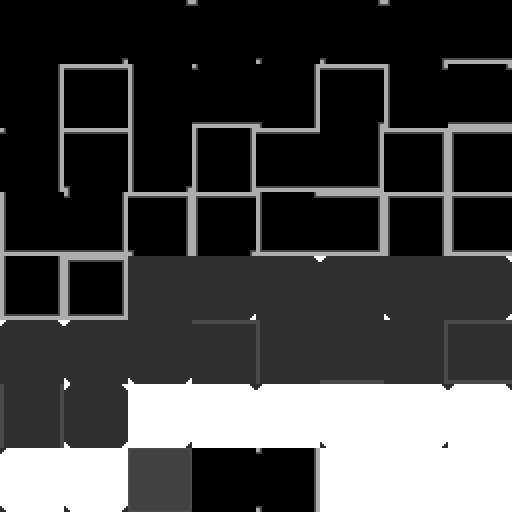
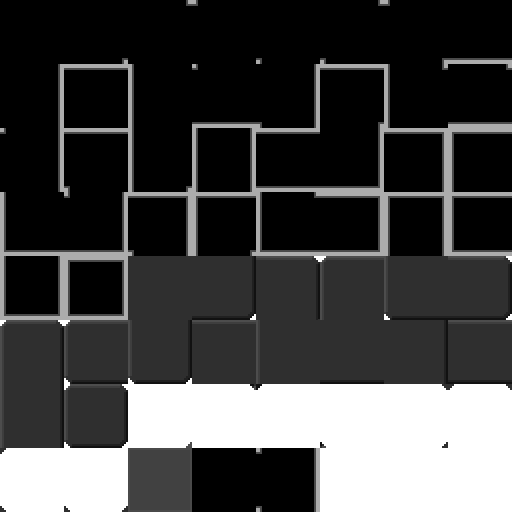
Remove corner sprites and somewhat fix sprite rendering issues

Changed region(s): [[0.375, 0.5, 1.0, 0.75], [0.0, 0.625, 0.375, 0.875], [0.625, 0.7188, 0.75, 0.75]]

diff --git a/src/js/stage.js b/src/js/stage.js
@@ -450,9 +450,15 @@ class Stage {
         // Draw any colliding tiles that haven't been drawn yet
         if (this.background) {
           const startCol = Math.floor(blockBounds.x1 / this.tileSize);
-          const endCol   = Math.ceil(blockBounds.x2 / this.tileSize);
+          let endCol   = Math.ceil(blockBounds.x2 / this.tileSize);
           const startRow = Math.floor(blockBounds.y1 / this.tileSize);
-          const endRow   = Math.ceil(blockBounds.y2 / this.tileSize);
+          let endRow   = Math.ceil(blockBounds.y2 / this.tileSize);
+
+          // If a block is perfectly on a tile + that tile is a non-zero height stage tile, draw tiles to bottom and right
+          if( blockBounds.x1 % this.tileSize == 0 && blockBounds.y1 % this.tileSize == 0 && this.background.tiles?.[startRow]?.[startCol]?.height != null) {
+            endCol += 1;
+            endRow += 1;
+          }
 
           for (let row = startRow; row < endRow; row++) {
             for (let col = startCol; col < endCol; col++) {

diff --git a/src/js/background.js b/src/js/background.js
@@ -52,7 +52,7 @@ class Background {
         const category = sprite3D ? sprite3D.category : null;
         const height = sprite3D ? sprite3D.height : 0;
 
-        const tile = spriteId == 0 ? null : new Tile(
+        const tile = spriteId == 0 || category == 'ignore' ? null : new Tile(
           spriteId,
           { x: col * this.tileSize, y: row * this.tileSize},
           image,
